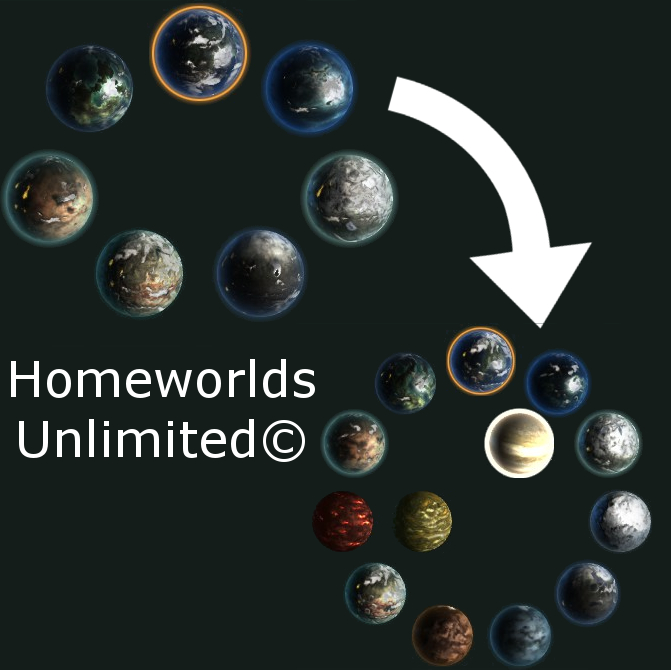
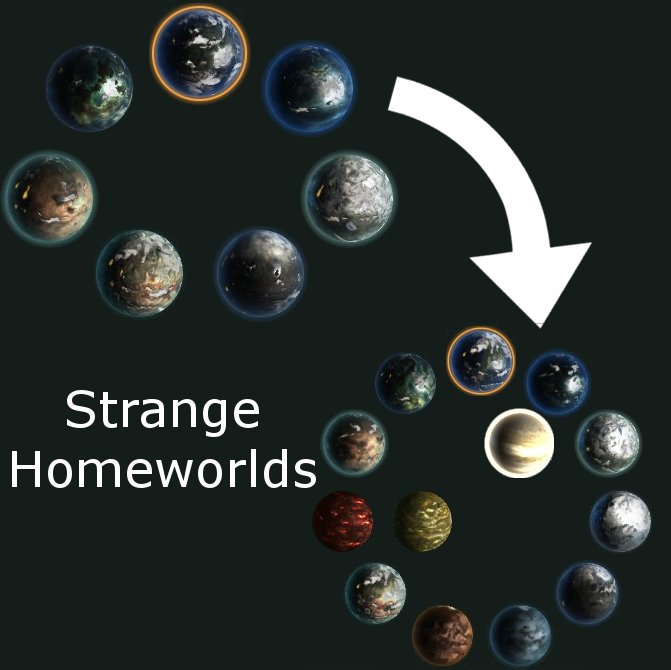
Changed name

Changed region(s): [[0.0, 0.5373, 0.4769, 0.7463]]

diff --git a/README.md b/README.md
@@ -1,6 +1,6 @@
-# What is Homeworlds Unlimited©
+# What is Strange Homeworlds
 
-Homeworlds Unlimited© is an addon to the mod [Colonize Unlimited©](https://steamcommunity.com/sharedfiles/filedetails/?id=682582076) and is designed to let you start with previously uninhabitable planets!
+Strange Homeworlds is an addon to the mod [Colonize Unlimited©](https://steamcommunity.com/sharedfiles/filedetails/?id=682582076) and is designed to let you start with previously uninhabitable planets!
 
 Get it on Steam Workshop:
 
@@ -12,6 +12,9 @@ Ability to start out with the following world types:
 * Barren Cold
 * Frozen
 * Gas Giant
+
+# Habitability Relationships
+![Habitability Relationships](https://github.com/dosaki/strange-homeworlds/blob/master/habitability_links.png)
 
 # Incompatibilities
 Anything that changes the following:
